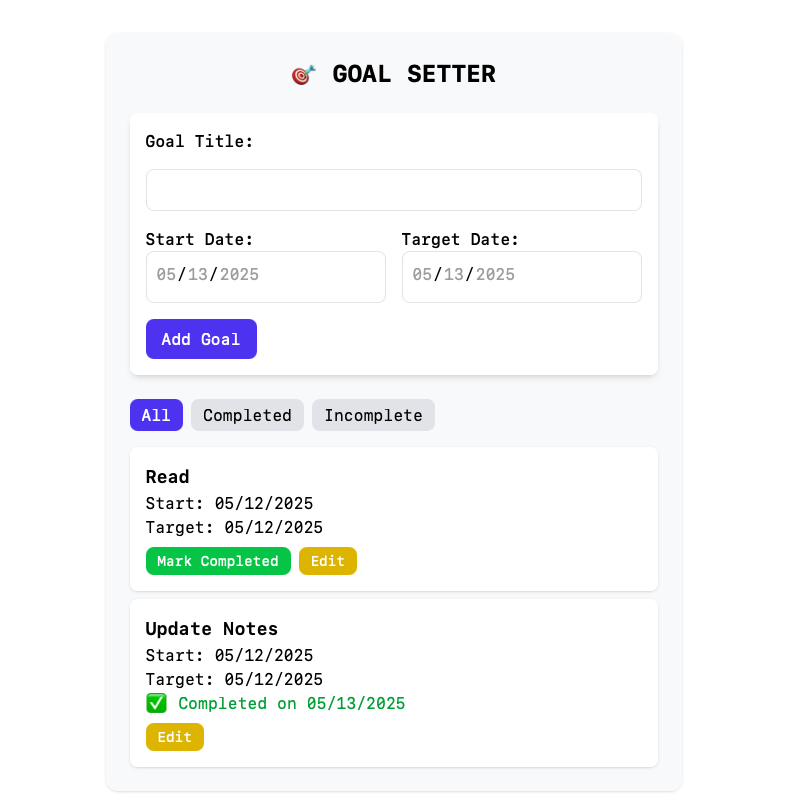
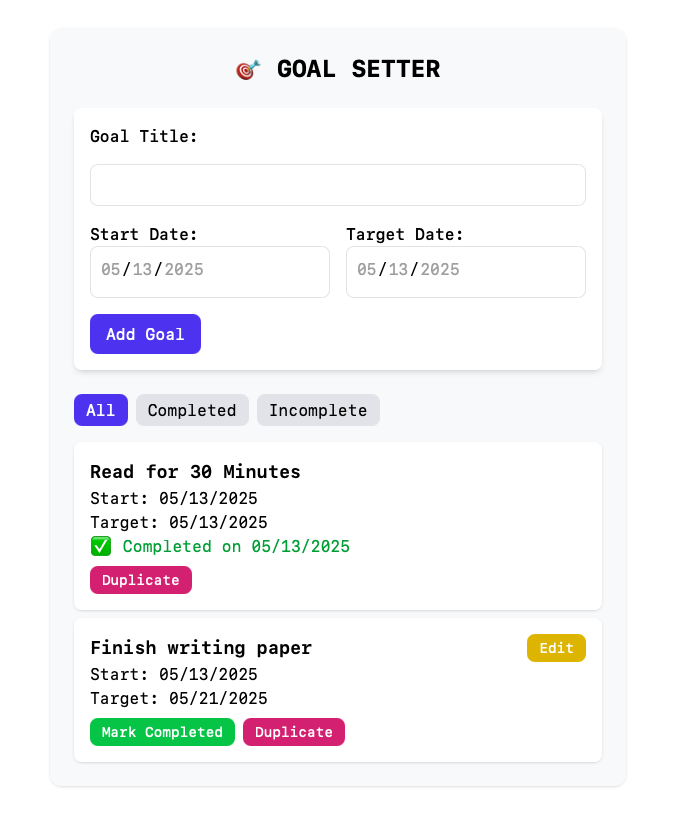
Added duplicate goal feature and added local storage

diff --git a/goal-getter/src/components/GoalList.jsx b/goal-getter/src/components/GoalList.jsx
@@ -1,5 +1,5 @@
 import { useSelector, useDispatch } from 'react-redux';
-import { markCompleted, setEditing } from '../redux/goalSlice';
+import { markCompleted, setEditing, duplicateGoal } from '../redux/goalSlice';
 import { motion } from 'framer-motion';
 
 const formatDate = (dateStr) => {
@@ -40,10 +40,24 @@ export default function GoalList() {
   return (
     <ul className="mt-4 space-y-2">
       {visibleGoals.map((goal) => (
-        <li key={goal.id} className="bg-white p-4 rounded-lg shadow">
-          <h2 className="font-semibold text-lg">{goal.title}</h2>
+        <li key={goal.id} className="bg-white p-4 rounded-lg shadow relative">
+          <div className="flex justify-between items-start">
+            <h2 className="font-semibold text-lg">{goal.title}</h2>
+            {!goal.completedDate && (
+              <motion.button
+                onClick={() => dispatch(setEditing(goal.id))}
+                className="text-sm bg-yellow-500 hover:bg-yellow-400 text-white px-3 py-1 rounded-lg"
+                whileHover={{ scale: 1.05 }}
+                whileTap={{ scale: 0.95 }}
+              >
+                Edit
+              </motion.button>
+            )}
+          </div>
+
           <p>Start: {formatDate(goal.startDate)}</p>
           <p>Target: {formatDate(goal.targetDate)}</p>
+
           {goal.completedDate ? (
             <p className="text-green-600">✅ Completed on {formatDate(goal.completedDate)}</p>
           ) : (
@@ -56,14 +70,16 @@ export default function GoalList() {
               Mark Completed
             </motion.button>
           )}
+
           <motion.button
-            onClick={() => dispatch(setEditing(goal.id))}
-            className="mt-2 text-sm bg-yellow-500 hover:bg-yellow-400 text-white px-3 py-1 rounded-lg"
+            onClick={() => dispatch(duplicateGoal(goal.id))}
+            className="mt-2 text-sm bg-pink-600 hover:bg-pink-500 text-white px-3 py-1 rounded-lg"
             whileHover={{ scale: 1.05 }}
             whileTap={{ scale: 0.95 }}
           >
-            Edit
+            Duplicate
           </motion.button>
+
         </li>
       ))}
     </ul>

diff --git a/goal-getter/src/redux/goalSlice.jsx b/goal-getter/src/redux/goalSlice.jsx
@@ -38,6 +38,17 @@ const goalSlice = createSlice({
       }
     },
 
+    duplicateGoal: (state, action) => {
+      const original = state.find(g => g.id === action.payload);
+      if (original) {
+        state.push({
+          ...original,
+          id: nanoid(),
+          completedDate: null,
+        });
+      }
+    },
+
     setEditing: (state, action) => {
       const id = action.payload;
       state.forEach(goal => {
@@ -47,5 +58,5 @@ const goalSlice = createSlice({
   },
 });
 
-export const { addGoal, markCompleted, updateGoal, setEditing } = goalSlice.actions;
+export const { addGoal, markCompleted, updateGoal, duplicateGoal, setEditing } = goalSlice.actions;
 export default goalSlice.reducer;

diff --git a/goal-getter/src/redux/store.jsx b/goal-getter/src/redux/store.jsx
@@ -2,6 +2,9 @@ import { configureStore } from '@reduxjs/toolkit';
 import goalReducer from './goalSlice';
 import filtersReducer from './filtersSlice';
 import sortingReducer from './sortingSlice';
+import { loadState, saveState } from './localStorage';
+
+const preloadedState = loadState();
 
 export const store = configureStore({
   reducer: {
@@ -9,4 +12,9 @@ export const store = configureStore({
     filters: filtersReducer,
     sorting: sortingReducer,
   },
+  preloadedState,
+});
+
+store.subscribe(() => {
+  saveState(store.getState());
 });

diff --git a/goal-getter/src/redux/localStorage.js b/goal-getter/src/redux/localStorage.js
@@ -1,0 +1,18 @@
+export const saveState = (state) => {
+    try {
+      localStorage.setItem("goalState", JSON.stringify(state));
+    } catch (error) {
+      console.error("Error saving state to LocalStorage:", error);
+    }
+  };
+  
+  export const loadState = () => {
+    try {
+      const savedState = localStorage.getItem("goalState");
+      return savedState ? JSON.parse(savedState) : undefined;
+    } catch (error) {
+      console.error("Error loading state from LocalStorage:", error);
+      return undefined;
+    }
+  };
+  
